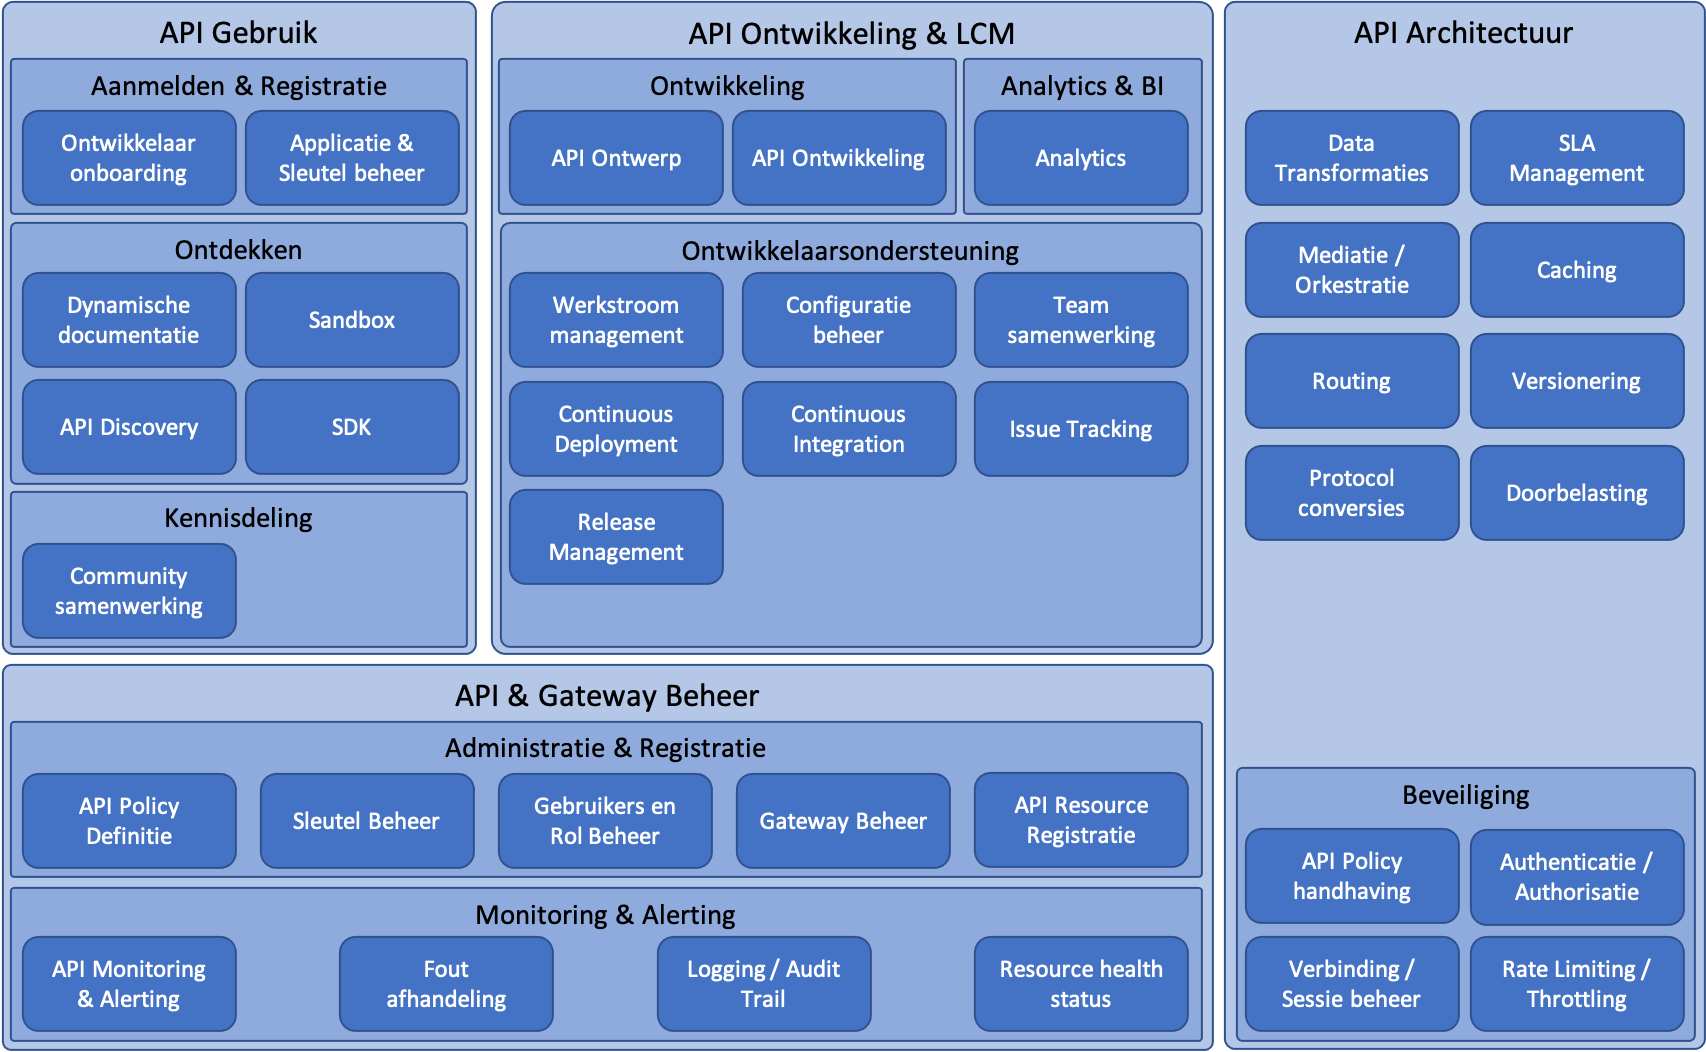
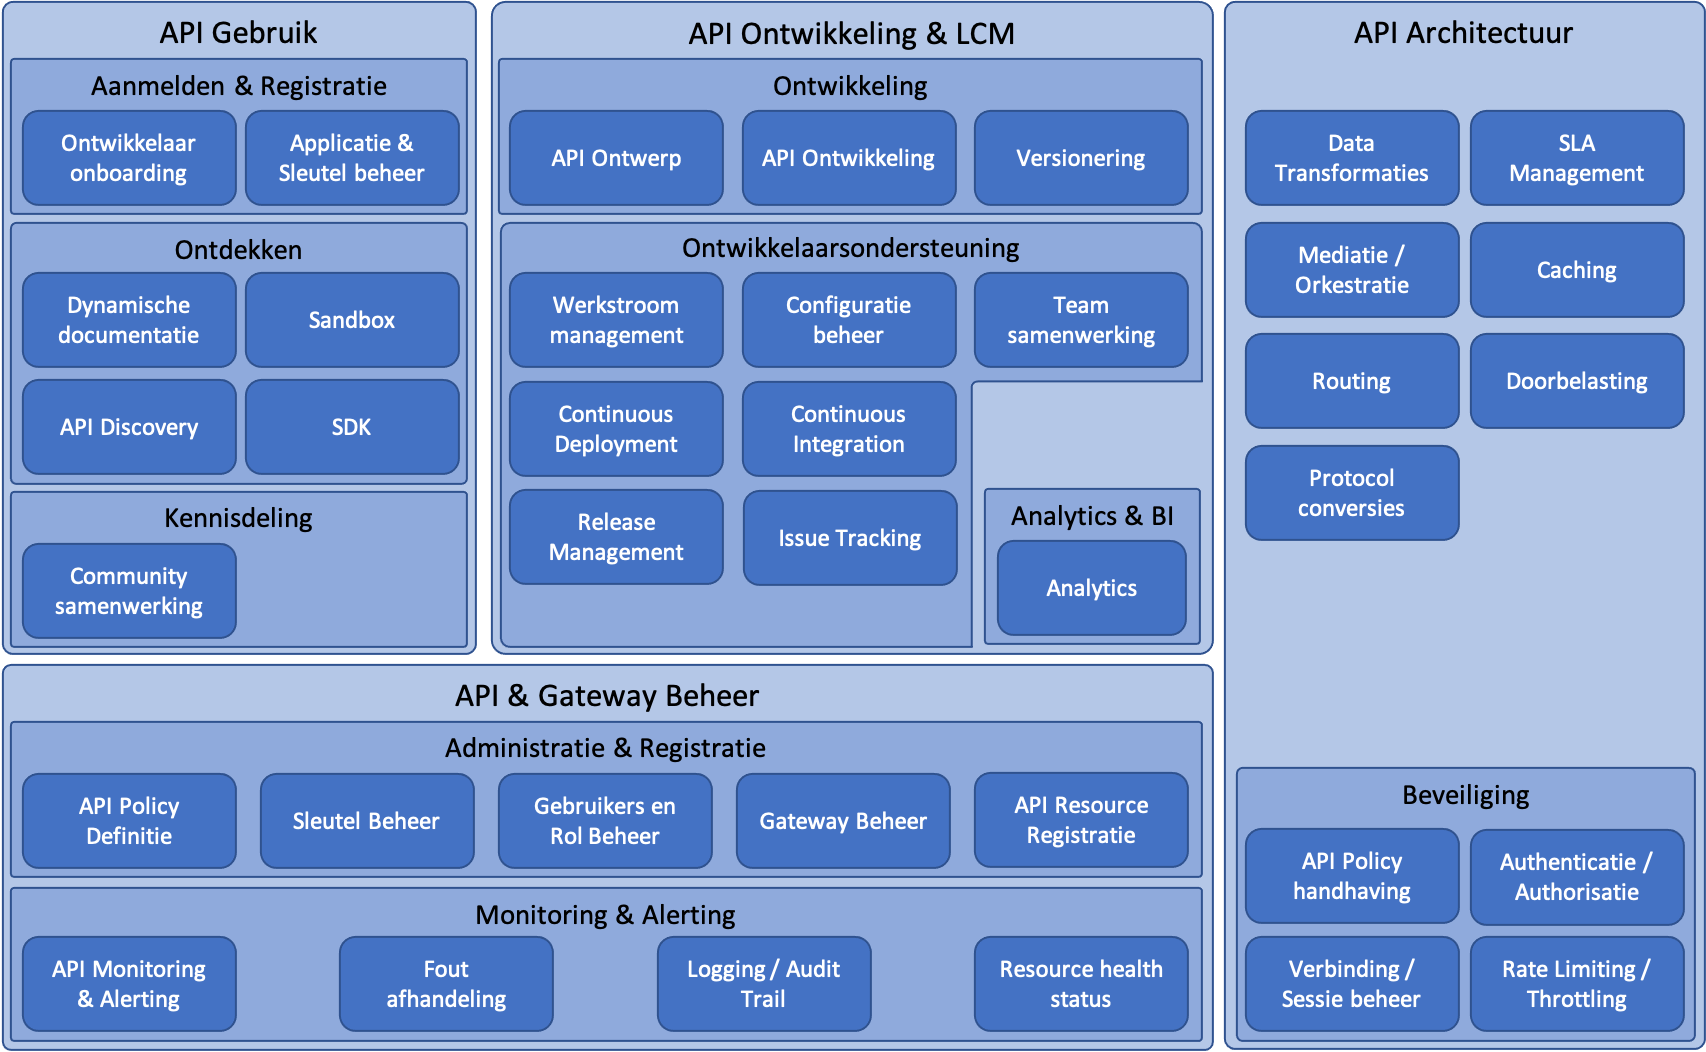
Finalized initial API Capability Model version -- ready for review

diff --git a/Werkgroep API architectuur/uitwerkingen/apicap.md b/Werkgroep API architectuur/uitwerkingen/apicap.md
@@ -115,7 +115,8 @@ Wanneer API's aan de buitenwereld worden opengesteld, moeten deze in de API Gate
 #### API Monitoring & Alerting
 API Monitoring & Alerting geeft inzicht in de technische staat van de API's en informeert betrokken groepen of personen in gevallen van onbeschikbaarheid.
 
-#### Fout afhandeling
+#### Foutafhandeling
+In het geval dat er fouten optreden in de API's, bijvoorbeeld door niet-functionerende back-end systemen, moeten API Clients worden voorzien van duidelijke foutmeldingen en moeten etrokkenen bij de API aanbieder voorzien worden van voldoende informatie om de oorzaak van de fouten op te kunnen lossen en te verhelpen, indien nodig.
 
 #### Logging & Audit trail
 Geeft inicht in de verkeersstromen tussen API Clients, API Gateway en het achterliggende applicatie landschap en zorgt ervoor dat alle handelingen herleidbaar zijn door inzicht te geven in historische verkeersstromen.
@@ -126,56 +127,40 @@ Zorgt ervoor dat eenvoudig kan worden vastgesteld of een API op het huidige mome
 ### API Architectuur
 API Architectuur gaat over keuzen die te maken hebben met het inrichten van het complete API landschap. 
 
-#### Data Transformaties
+#### API Mediatie
+In het geval back-end systemen niet de mogelijkheden hebben te communiceren volgens de gespecificeerde API contracten of als een API betrekking heeft op meerdere back-end systemen, kan het noodzakelijk zijn data transformaties toe te passen om toch de gebruiksvriendelijke API's aan afnemers te kunnen bieden. In dit geval wordt API Mediatie, ook wel data transformatie of orkestratie, toegepast met als doel de API's die aan API Clients geboden worden zo gebruiksvriendelijk mogelijk te laten zijn, zonder afhankelijk te zijn van implementatiedetails en technologische beperkingen van back-end systemen. API Mediatie kan plaatsvinden in microservices, een integratielaag in de back-end of in de API Gateway.
 
 #### SLA Management
-Bij elke API moeten Service Level Agreements (SLA) worden opgesteld, zodat afnemers weten waar zij aan toe zijn bij het gebruiken van API's. 
-
-#### Mediatie / Orkestratie
+Bij elke API moeten Service Level Agreements (SLA) worden opgesteld, zodat afnemers weten waar zij aan toe zijn bij het gebruiken van API's. Als onderdeel hiervan kunnen ook policies zoals doorbelasting en throttling worden ingesteld, om bijvoorbeeld verschilende gebruiks-tiers met bijbehorende service levels aan te kunnen bieden.
 
 #### Caching
+Een belangrijk onderdeel van developer experience bij API's is de performance ervan. Caching zorgt ervoor dat niet voor elke aanroep het achterlandschap geraadpleegd hoeft te worden. RESTful API's lenen zich zeer goed voor het toepassen van caching door toepassing van het Proxy architectuur patroon, echter dient zorg te worden gedragen dat gewijzigde broninformatie leidt tot invalidatie van de informatie in de cache, zodat API Clients geen achterhaalde informatie ophalen.
 
+#### Routing
+In het geval de back-end functionaliteit wordt ingevuld door meerdere back-end systemen of microservices, dienen inkomende API verzoeken te worden gerouteerd naar de juiste systemen. In het eenvoudigste geval kan dit betekenen dat verzoeken voor verschillende API endpoints naar verschillende back-end systemen worden gerouteerd, maar in ingewikkeldere situaties kan het ook noodzakelijk zijn te routeren op basis van informatie uit het verzoek.
 
-- API Beveiliging
+#### Protocol conversie
+Om operabiliteit te vergroten zodat meer API Clients aan kunnen sluiten, kan het nuttig zijn API's aan te bieden in andere protocollen en architectuurstijlen dan REST / JSON. Zonder specifieke code in back-end systemen kan bijvoorbeeld de API Gateway API's op basis van REST en JSON omvormen naar API's op basis van SOAP en XML. Hierdoor kunnen API Clients die geen JSON ondersteunen worden bediend, zonder dat dit leidt tot extra ontwikkel effort aan de back-end / microservices kant.
 
-- Analytics
+#### Doorbelasting
+In sommige gevallen kan er voor gekozen worden om API gebruik door te belasten. Er bestaan verschillende doorbelastingsmodellen, welke vallen onder de volgende hoofdcategorieën:
 
-- ProtocolConversies
+- *Vrij:* de API is vrij te gebruiken zonder kosten.
+- *Betaald:* gebruikers van de API moeten betalen voor het gebruik ervan. Onder deze categorie vallen verschillende subcategorieën, zoals Freemium, Tiered, Pay-as-you-go en doorbelasting op basis van een vaste prijs per tijdseenheid.
+- *Indirect:* gebruikers van de API betalen niet direct voor het gebruik ervan, maar dragen indirect bij aan het business model van de API aanbieder, waardoor API gebruik geld oplevert voor de API aanbieder.
+- *Affiliate:* vergelijkbaar met indirect, behalve dat de API aanbieder gebruikers van API's betaalt om het gebruik van de API's zoveel mogelijk te stimuleren.
 
-- Logging / Audit
+#### API Policy handhaving
+API Policy handhaving gaat over het toepassen van de ontwikkelde API policies op API endpoints. Hierbij kan onderscheid worden gemaakt tussen policies die altijd van toepassing zijn en policies die afhankelijk van de aangeroepen API of de afgesproken service levels worden toegepast.
 
-- Trail
+#### Authenticatie / Autorisatie
+Hieronder valt de identificatie van de API Client end eindgebruiker, authenticatie van de eindgebruiker bij de API aanbieder op basis hiervan en de autorisatie van API toegang op basis van de geidentificeerde API Client end eindgebruiker.
 
-- Policyenforcement
+#### Verbinding / sessie beheer
+RESTful API's zijn per definitie stateless, maar afhankelijk van bepaalde keuzen met betrekking tot bijvoorbeeld autorisatie kan het zijn dat de API aanbieder informatie over de sessie bijhoudt over API aanroepen heen. Hierbij kan bijvoorbeeld worden gedacht aan het ingelogd zijn van een gebruiker. Het bijhouden van sessies door de API aanbieder moet echter tot een minimum worden beperkt, om complexe situaties met sticky sessions in het geval van meervoudig uitgevoerde API Gateways te voorkomen.
 
-- Back-endAdapters
-
-- Authenticatie /Authorisatie
-
-- Verbinding /Sessie beheer
-
-- Rate Limiting /Throttling
-
-- SLA Management
-
-- Routing
-
-### API Management
-
-- API PolicyDefinitie
-
-- GatewayBeheer
-
-- SleutelManagement
-
-- API Monitoring& Alerting
-
-- Beheer API
-
-- Foutafhandeling
-
-- Gebruikers en Rol Beheer
-
+#### Rate limiting / throttling
+Om back-end systemen te beschermen tegen grote aantallen API aanroepen worden rate limiting en throttling toegepast met als doel het aantal toegestane API aanroepen per API Client te beperken. Rate limits kunnen worden ingesteld op verschillende tijdseenheden, bijvoorbeeld het aantal toegestane verzoeken per uur of per maand.
 
 >Opmerking: Zie ook huidige vulling op : https://geonovum.github.io/KP-APIs/API-strategie-algemeen/#diensten-toegang-api-management 
 (De capabilities kunnen mogelijk gebruikt worden om dit model uit te breiden)
